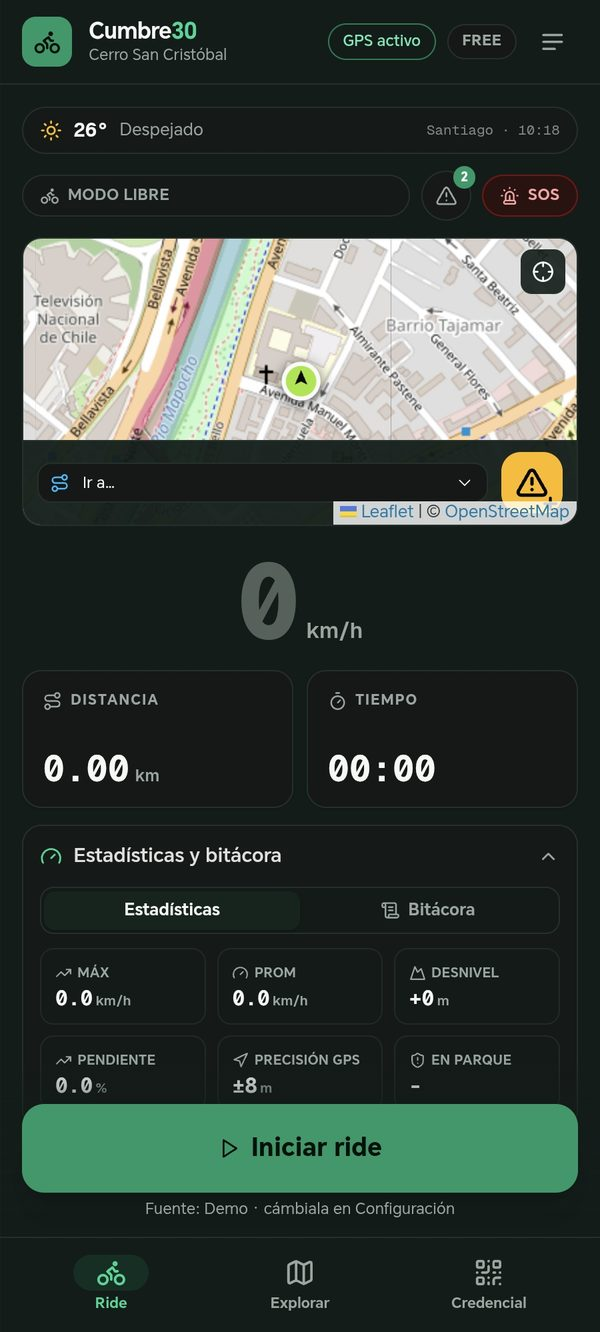
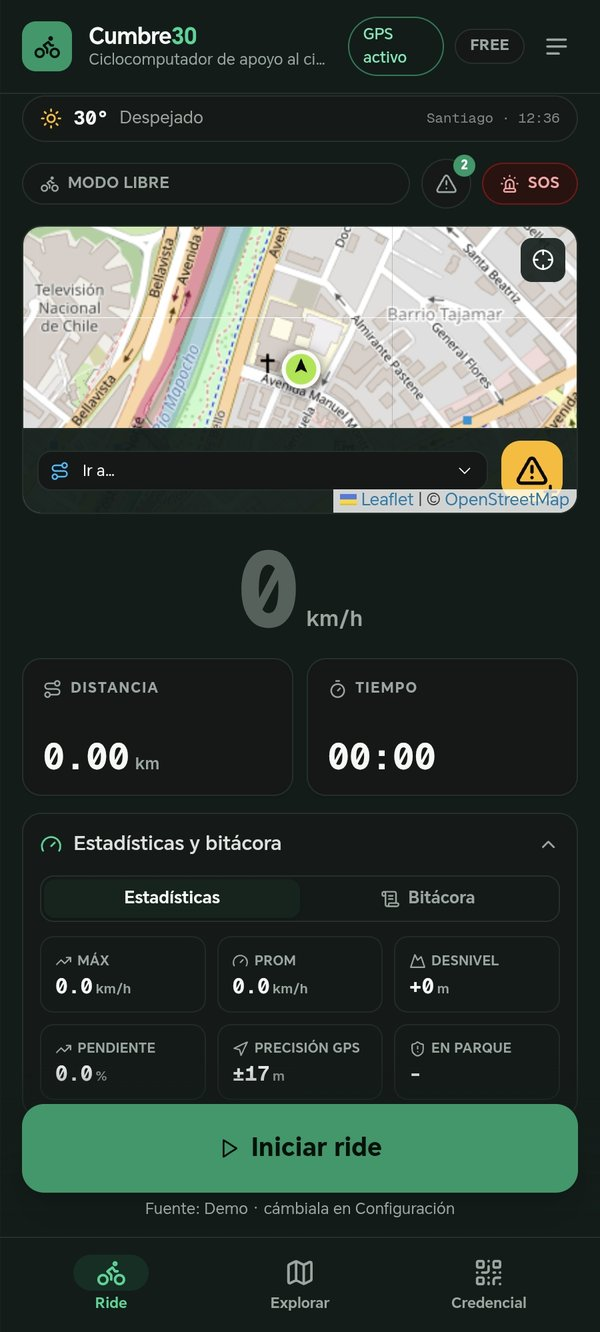
Web: carrusel con 3 capturas nuevas (Ride/Mapa/Perfil), Novedades sólo v1.8.7 (33) y Aviso de No Afiliación en /terminos

diff --git a/src/lib/appsCatalog.ts b/src/lib/appsCatalog.ts
@@ -63,11 +63,9 @@ export const APPS: AppCatalogo[] = [
     descripcionBreve:
       "Cumbre30 es un ciclocomputador de apoyo al ciclista: registra tus pedaleos con GPS y te acompaña con avisos informativos del Parque Metropolitano de Santiago, como el límite de 30 km/h. Todo funciona sin señal: descarga la app y pedalea con GPS aunque no tengas datos móviles.",
     imagenes: [
-      { src: "/apps/cumbre30/01-ride.jpg", alt: "Pantalla Ride de Cumbre30: mapa en vivo, velocidad y botón para iniciar el ride" },
-      { src: "/apps/cumbre30/02-explorar.jpg", alt: "Explorar: mapa del Parque Metropolitano con búsqueda de direcciones y capas" },
-      { src: "/apps/cumbre30/03-desafios.jpg", alt: "Desafíos y recompensas de Cumbre30 con niveles y pines" },
-      { src: "/apps/cumbre30/04-qr.jpg", alt: "Credencial QR Pedalea Seguro (Parquemet) guardada en Cumbre30" },
-      { src: "/apps/cumbre30/05-perfil.jpg", alt: "Perfil de Cumbre30 con inicio de sesión y creación de cuenta" },
+      { src: "/apps/cumbre30/01-ride.jpg", alt: "Pantalla Ride del ciclocomputador Cumbre30: velocidad, mapa en vivo, botón SOS y estadísticas del ride" },
+      { src: "/apps/cumbre30/02-mapa.jpg", alt: "Mapa de Cumbre30 con búsqueda de direcciones y capas de rutas, senderos, accesos y puntos de interés" },
+      { src: "/apps/cumbre30/03-perfil.jpg", alt: "Perfil de Cumbre30 con inicio de sesión y creación de cuenta para guardar tus rides y logros" },
     ],
     version: APP_VERSION,
     versionCode: APP_VERSION_CODE,
@@ -89,9 +87,13 @@ export const APPS: AppCatalogo[] = [
       },
       {
         titulo: "Novedades de esta versión",
+        // Sólo la última versión + build, con las mejoras de la app en
+        // resumen (sin ajustes de operación/web). La versión sale de
+        // appVersion.ts para que quede sincronizada sola.
         cuerpo:
-          "v1.8.7 (versionCode 33):\n• Textos revisados: Cumbre30 se presenta como ciclocomputador de apoyo al ciclista; la información del Parque Metropolitano es referencial y no oficial\n• Mejoras de estilo en las páginas legales de la web\n\nv1.8.6 (versionCode 32):\n• Ahora puedes entrar con tu cuenta Cumbre30 de la web (cumbregeo.cl) usando el mismo correo y contraseña: la cuenta se copia al teléfono con tu perfil y logros\n• Nota en el inicio de sesión para cuentas creadas en la web\n\nv1.8.5 (versionCode 31):\n• Corrección importante: el inicio de sesión (Google y correo) dentro de la app Android vuelve a funcionar; las cuentas se guardan en tu teléfono\n• Preparación para Google Play: versión de tienda con compras dentro de la app\n\nv1.8.4 (versionCode 30):\n• Aviso por voz al entrar a las bajadas fiscalizadas de 30 km/h y avisos de ingreso/cierre del parque según horario\n• Nueva capa de mapas: Paseo Metropolitano (8 tramos mixtos peatonales y ciclistas)\n• Desafíos: nueva Serie Metropolitana (El anillo, Ida y vuelta, Cuatro anillos) y reto diario Vuelta al anillo\n• Teléfono de emergencias del parque actualizado a 1466 (línea oficial Parquemet)\n• Trazados MTB 1 y MTB 2 afinados: bajan los senderos reales completos\n• Estadísticas Pro afinadas y mejoras de estabilidad\n\n" +
-          "v1.8.3 (versionCode 29):\n• Temas de color para toda la app y pantalla ride personalizable: velocímetro digital, arco, dial o aguja, en tamaño normal, grande o gigante (Cumbre30 Pro)\n• SOS ampliado: Parquemet, Municipalidad de Providencia y Salud Responde además de 133, 131 y 132\n• Datos oficiales del parque: accesos, cumbres, senderos enduro y horario de ciclistas\n• Descenso limpio: resumen cuando recorres el parque respetando los 30 km/h\n• Mejoras de estabilidad\n\nv1.8.2 (versionCode 28):\n• Nueva marca: Cumbre GEO - sitio oficial cumbregeo.cl\n• Compra Pro con entrega automática: tu código llega solo al correo tras pagar\n• Mejoras de estabilidad",
+          `v${APP_VERSION} (${APP_VERSION_CODE}):\n` +
+          "• Presentación actualizada en toda la app: Cumbre30 ahora se describe como ciclocomputador de apoyo al ciclista y la información del Parque Metropolitano se muestra como referencial\n" +
+          "• Textos revisados en la pantalla de ride, alertas SOS, ayuda y en los archivos que exporta la app (GPX y PDF del ride)",
       },
     ],
     // APK directo: ACTIVO - descarga desde Google Drive (link del cliente,

diff --git a/src/app/terminos/page.tsx b/src/app/terminos/page.tsx
@@ -5,14 +5,14 @@ import Link from "next/link";
 // /terminos - Términos y Condiciones de Cumbre30.
 // Página estática (sin APIs dinámicas) para que también exista
 // dentro del export del APK. Mismo formato que /privacidad.
-// Aclara la independencia de Cumbre GEO respecto a Parquemet
-// y demás marcas e instituciones mencionadas en la app.
+// Incluye el Aviso de No Afiliación respecto a Parquemet y demás
+// marcas e instituciones mencionadas en la app.
 // ============================================================
 
 export const metadata: Metadata = {
   title: "Términos y Condiciones - Cumbre30",
   description:
-    "Términos de uso de Cumbre30: independencia de marcas (Parquemet y otros), uso responsable del ciclista, cuentas, plan Pro, propiedad intelectual y responsabilidad.",
+    "Términos de uso de Cumbre30: aviso de no afiliación (Parquemet y otras marcas), uso responsable del ciclista, cuentas, plan Pro, propiedad intelectual y responsabilidad.",
   // Favicon de esta página: logo de la app Cumbre30 (el resto del sitio
   // usa la marca Cumbre GEO definida en layout.tsx).
   icons: {
@@ -60,18 +60,19 @@ export default function TerminosPage() {
         </p>
       </Section>
 
-      <Section title="Somos independientes: sin relación con Parquemet ni otras marcas">
+      <Section title="Aviso de No Afiliación">
         <p>
-          <span className="font-medium text-foreground">Cumbre GEO y Cumbre30 son productos independientes.</span> No
-          tenemos ninguna relación, acuerdo, patrocinio, respaldo ni representación con el{" "}
-          <span className="font-medium text-foreground">Parque Metropolitano de Santiago (Parquemet)</span> ni con
-          ninguna otra institución pública o empresa privada.
+          Cumbre30 es una herramienta digital desarrollada de forma independiente con fines exclusivamente
+          informativos y recreativos. No tenemos ninguna relación, acuerdo, patrocinio, respaldo ni representación
+          oficial con el <span className="font-medium text-foreground">Parque Metropolitano de Santiago (Parquemet)</span>,
+          ni con ninguna otra institución pública o empresa privada mencionada en la plataforma.
         </p>
         <p>
-          Los nombres, marcas, logotipos e instituciones que aparecen en la app o en este sitio (Parquemet, Pedalea
-          Seguro, Carabineros de Chile, Salud Responde, Google, Android, Google Play, Mercado Pago, OpenStreetMap y
-          otros) son propiedad de sus respectivos titulares y se mencionan únicamente con fines informativos o de
-          compatibilidad. Ninguna de esas marcas respalda ni es responsable de Cumbre30.
+          Los nombres “Parque Metropolitano de Santiago” y “Parquemet”, así como todos los demás nombres
+          comerciales, marcas, logotipos, servicios y atracciones referenciados en esta aplicación, son marcas
+          registradas o propiedad intelectual de sus respectivos titulares estatales o privados. Su mención en
+          Cumbre30 tiene un carácter meramente descriptivo y referencial para orientar y ubicar geográficamente las
+          rutas y puntos de interés del Cerro San Cristóbal, sin que ello implique vínculo oficial alguno.
         </p>
       </Section>
 

diff --git a/scripts/update-capturas.py b/scripts/update-capturas.py
@@ -1,0 +1,51 @@
+#!/usr/bin/env python3
+"""Reemplaza las capturas del carrusel (modal /geo) con las 3 fotos
+adjuntas por el cliente (900x1998 -> 600x1332, mismo aspecto x2/3).
+
+  upload/1-Ride.jpg  -> public/apps/cumbre30/01-ride.jpg
+  upload/2-Mapa.jpg  -> public/apps/cumbre30/02-mapa.jpg
+  upload/3-Perfil.jpg-> public/apps/cumbre30/03-perfil.jpg
+
+Borra las capturas antiguas fuera del nuevo set (02-explorar,
+03-desafios, 04-qr, 05-perfil). Quedan en git por si hay que volver.
+"""
+from PIL import Image
+import os
+
+BASE = "/home/z/my-project"
+SRC = os.path.join(BASE, "upload")
+DST = os.path.join(BASE, "public/apps/cumbre30")
+
+MAP = {
+    "1-Ride.jpg": "01-ride.jpg",
+    "2-Mapa.jpg": "02-mapa.jpg",
+    "3-Perfil.jpg": "03-perfil.jpg",
+}
+BORRAR = ["02-explorar.jpg", "03-desafios.jpg", "04-qr.jpg", "05-perfil.jpg"]
+
+TARGET = (600, 1332)
+
+for origen, destino in MAP.items():
+    im = Image.open(os.path.join(SRC, origen)).convert("RGB")
+    if im.size != (900, 1998):
+        # recorte centrado por si el aspecto difiere un poco
+        ratio = TARGET[0] / TARGET[1]
+        w, h = im.size
+        if w / h > ratio:
+            nw = int(h * ratio); x = (w - nw) // 2; im = im.crop((x, 0, x + nw, h))
+        else:
+            nh = int(w / ratio); y = (h - nh) // 2; im = im.crop((0, y, w, y + nh))
+    im = im.resize(TARGET, Image.LANCZOS)
+    out = os.path.join(DST, destino)
+    im.save(out, "JPEG", quality=85, optimize=True, progressive=True)
+    print(f"{origen} -> {destino}  {im.size[0]}x{im.size[1]}  {os.path.getsize(out)//1024} KB")
+
+for viejo in BORRAR:
+    p = os.path.join(DST, viejo)
+    if os.path.exists(p):
+        os.remove(p)
+        print(f"borrada (queda en git): {viejo}")
+
+print("--- final:")
+for f in sorted(os.listdir(DST)):
+    print(" ", f, os.path.getsize(os.path.join(DST, f)) // 1024, "KB")
